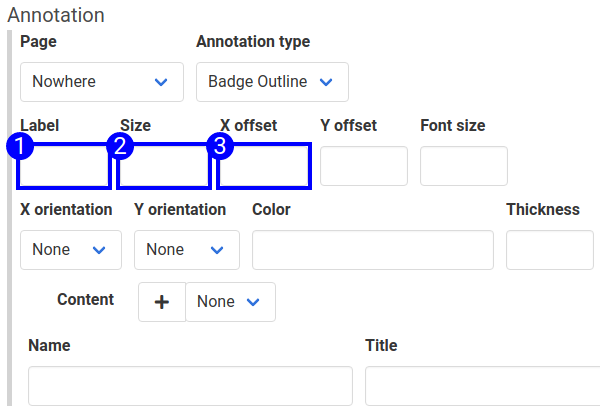
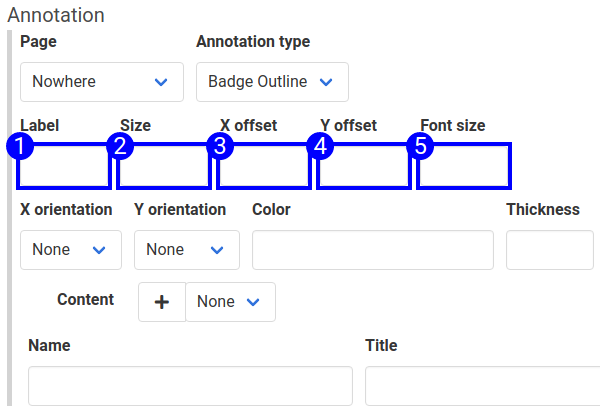
Badge Outline Article

Changed region(s): [[0.51, 0.3251, 0.87, 0.4729]]

diff --git a/docs/annotation_type_badge_outline.md b/docs/annotation_type_badge_outline.md
@@ -1,0 +1,9 @@
+# Badge Outline Annotation Type
+
+The 'badge outline' annotation type combines the [outline](annotation_type_outline.md) and [badge](annotation_type_badge.md) annotations. It puts an outline around the element, and a badge to help correlate it to text content. 
+
+To badge and outline an element on a page, create an 'Apply Annotation' step, and select the 'Badge Outline' annotation type. 
+
+![Badge Annotation Form Reference](images/annotation_subform_badge_outline.png)
+
+The [outline](annotation_type_outline.md) and [badge](annotation_type_badge.md) articles describe these fields already. They have been annotated with 'badge outline' annotations for illustration.
